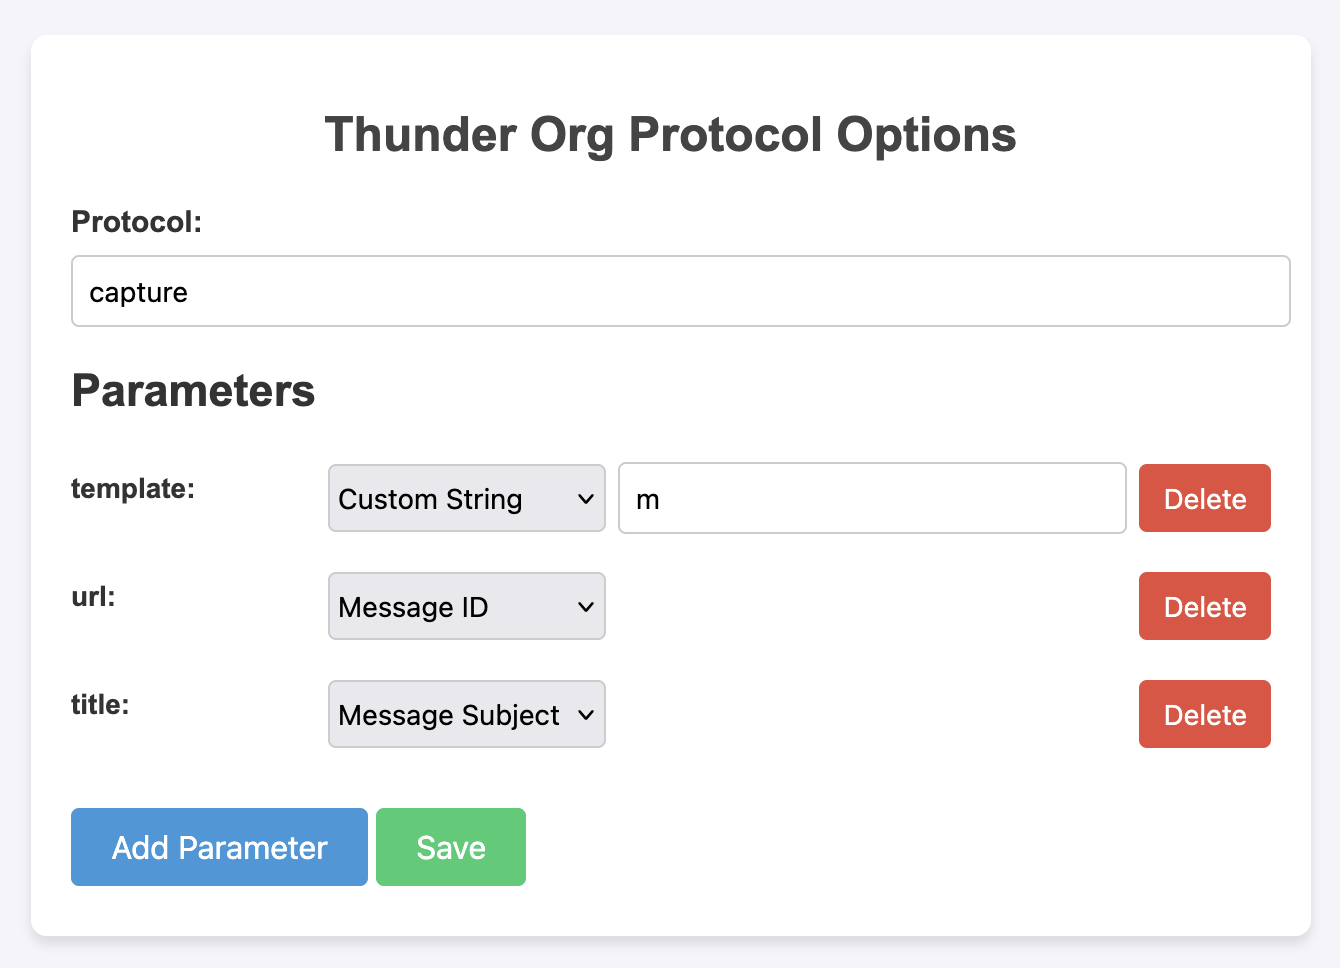
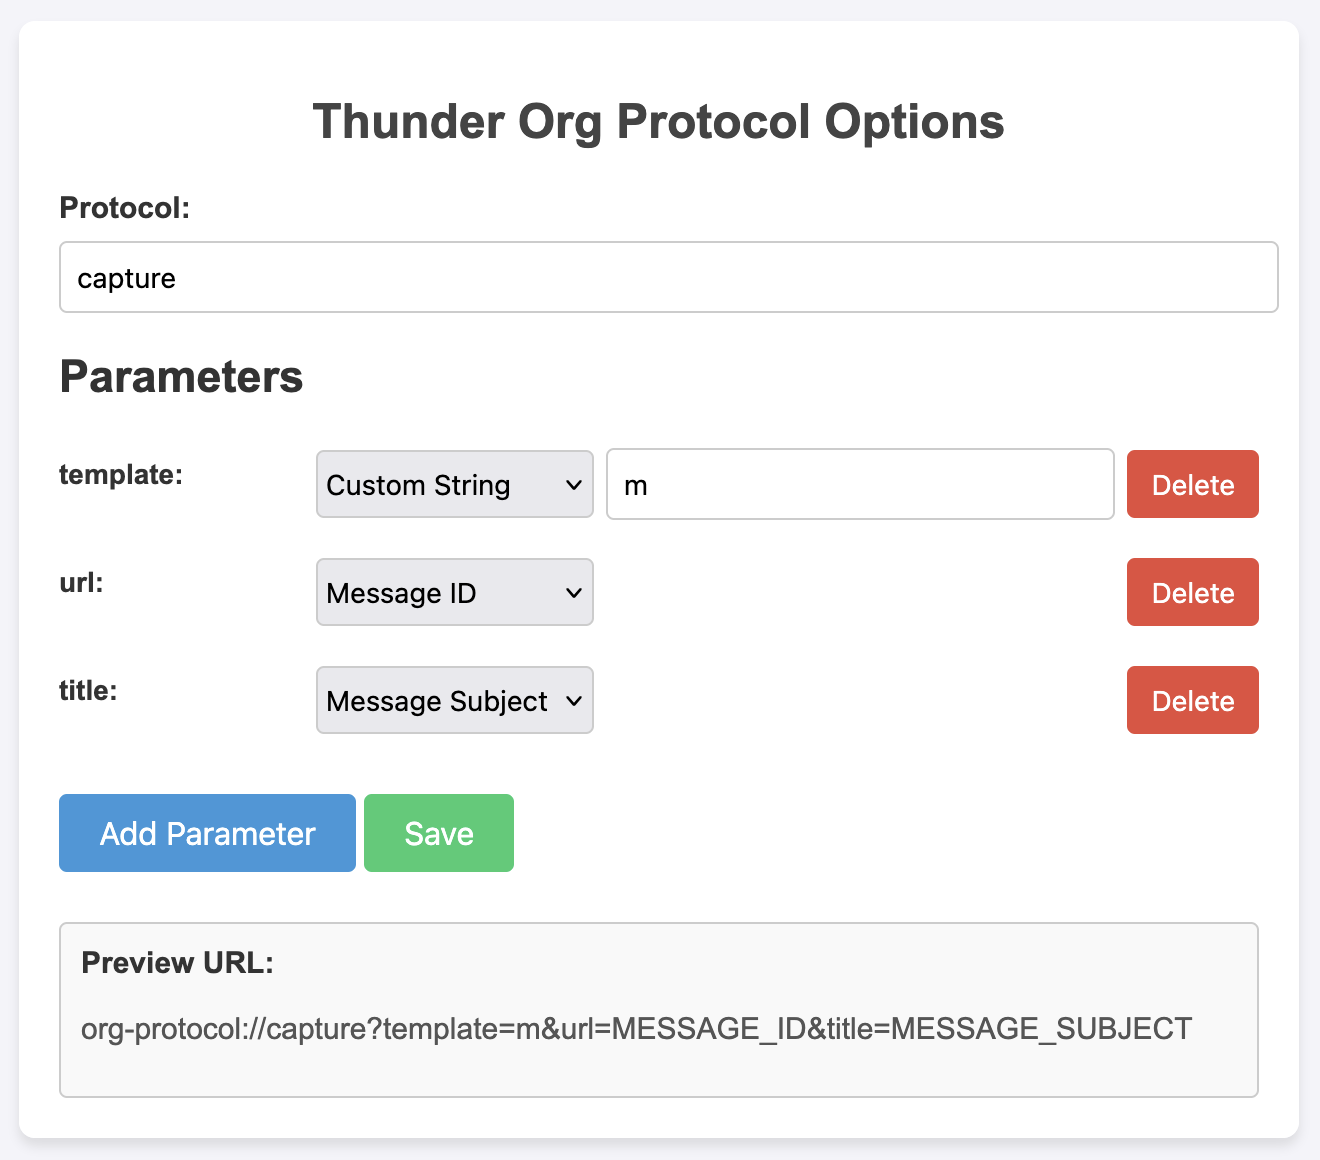
Add semantic versioning + new screenshot

diff --git a/options.js b/options.js
@@ -91,7 +91,7 @@ function updatePreviewURL() {
         const select = div.querySelector("select");
         const input = div.querySelector("input");
         const key = select.id;
-        const value = select.value === "custom" ? input.value : select.value;
+        const value = select.value === "custom" ? input.value : select.value.toUpperCase();
         params.push(`${encodeURIComponent(key)}=${encodeURIComponent(value)}`);
     });
 
